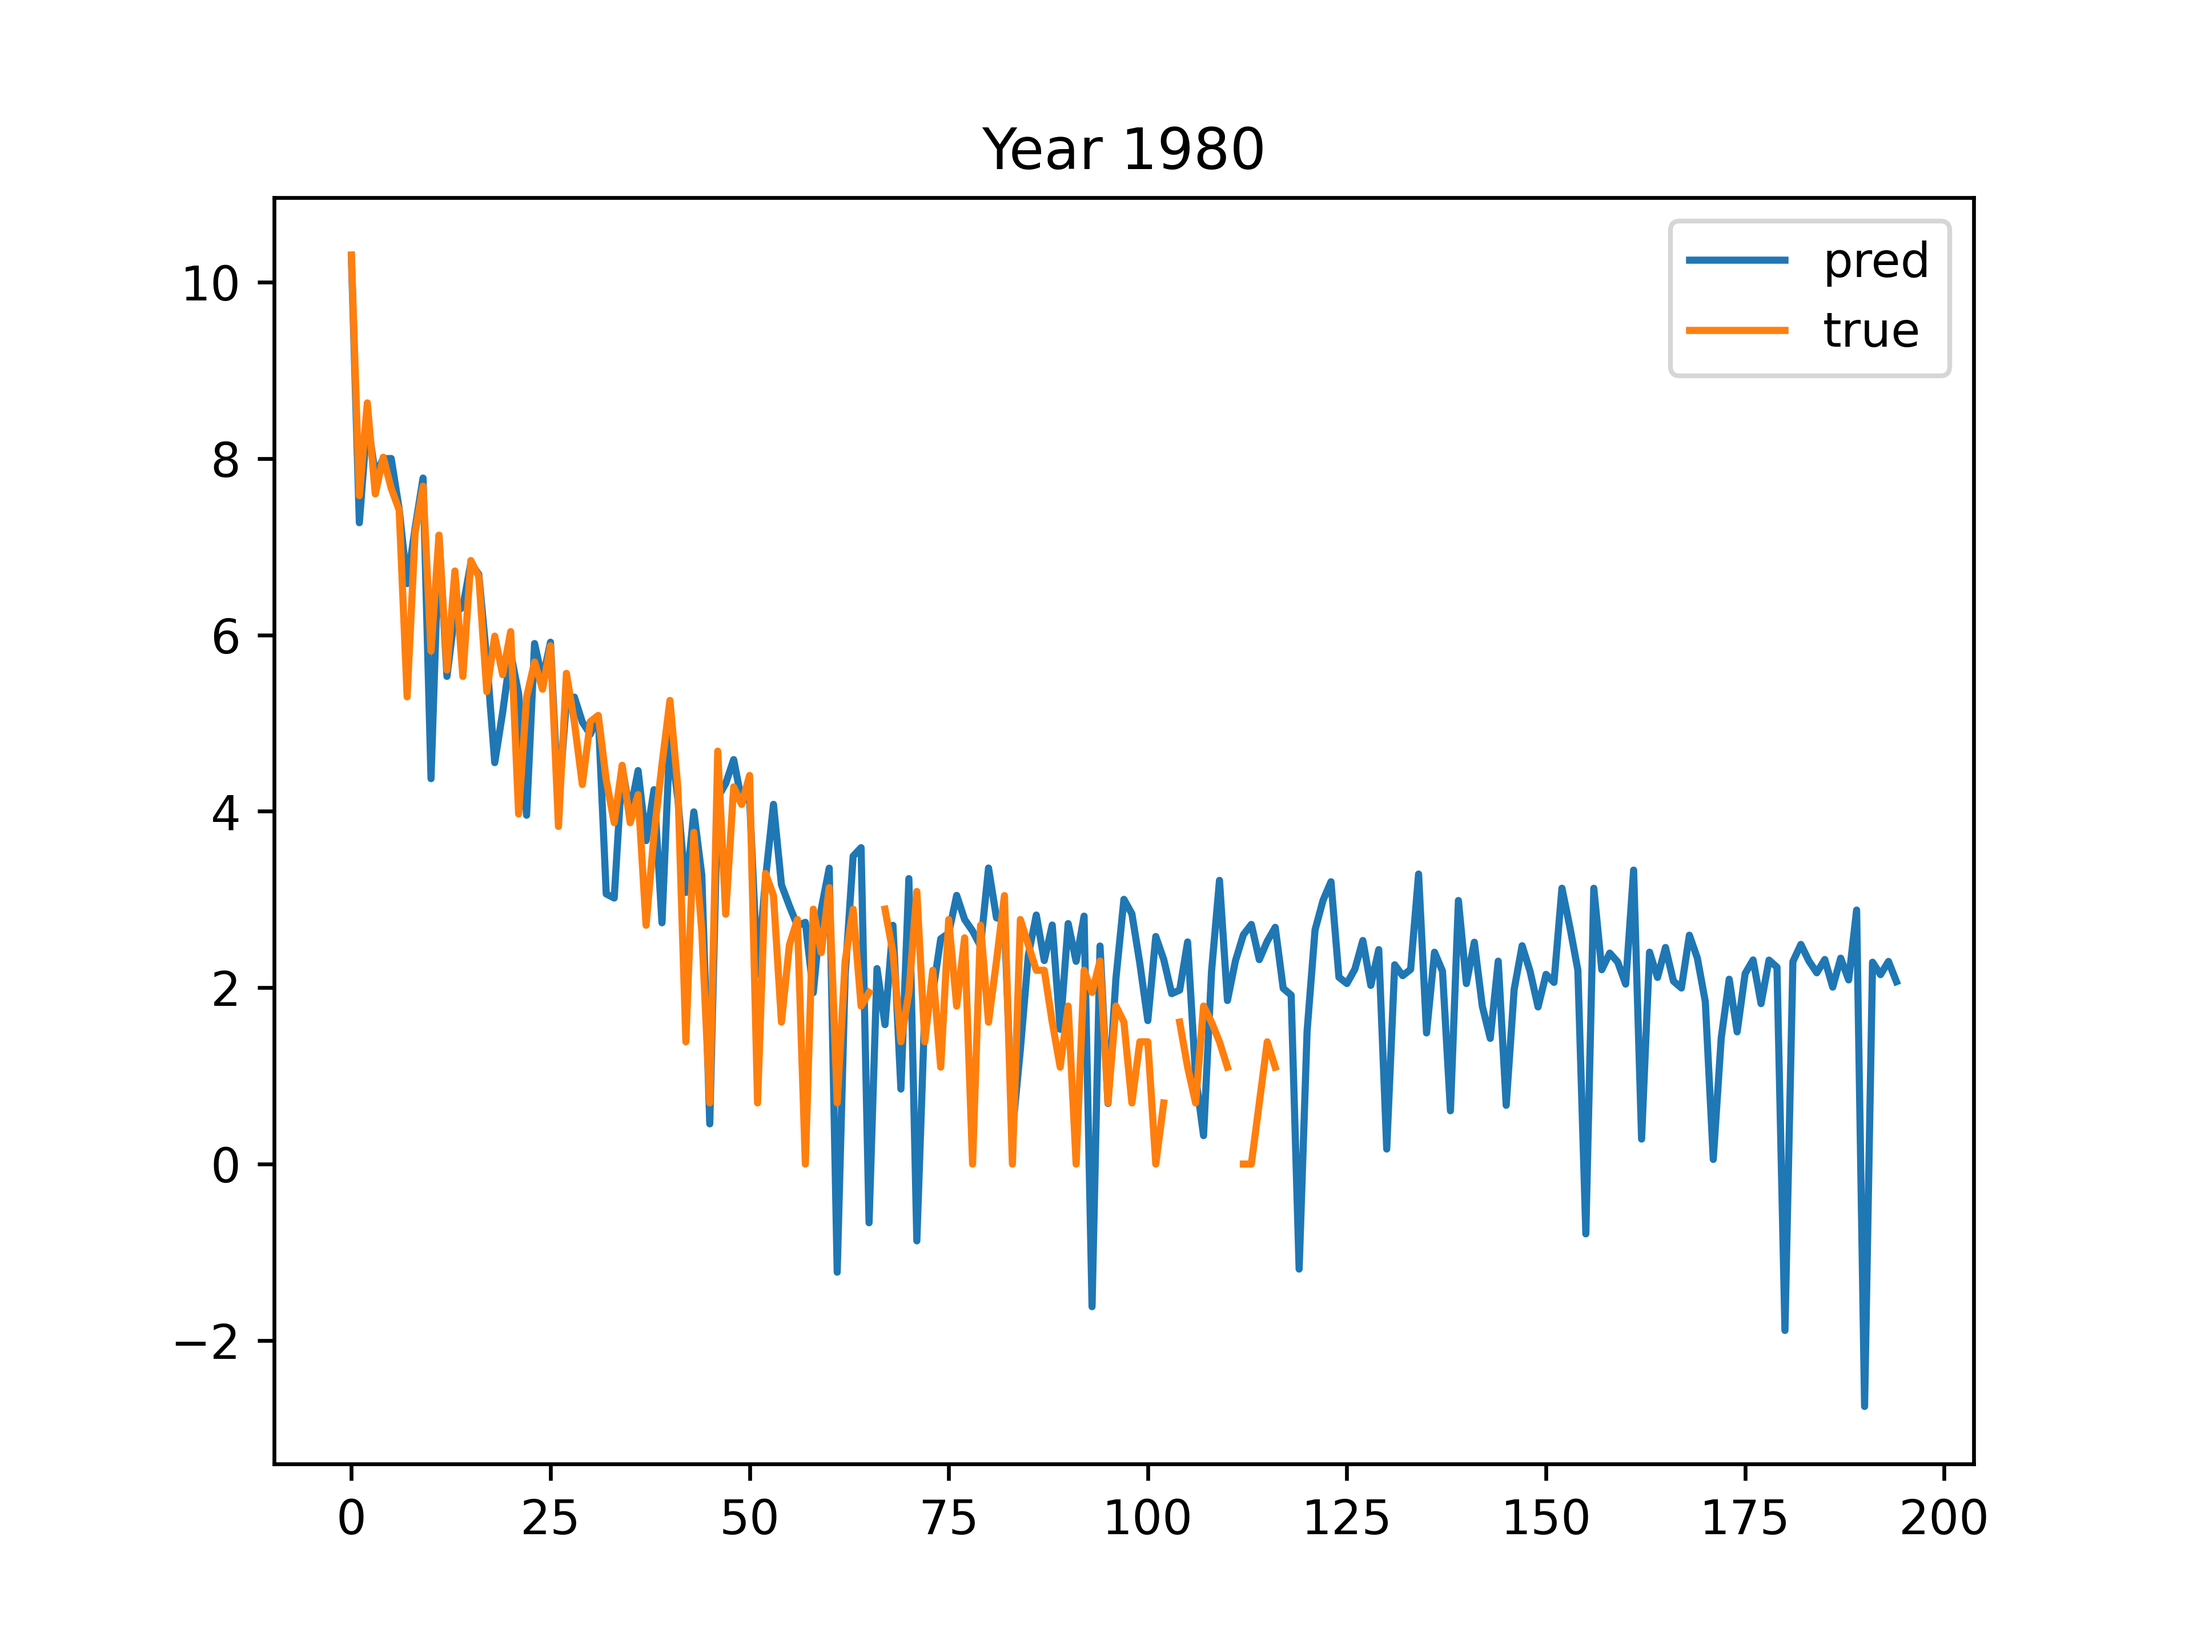
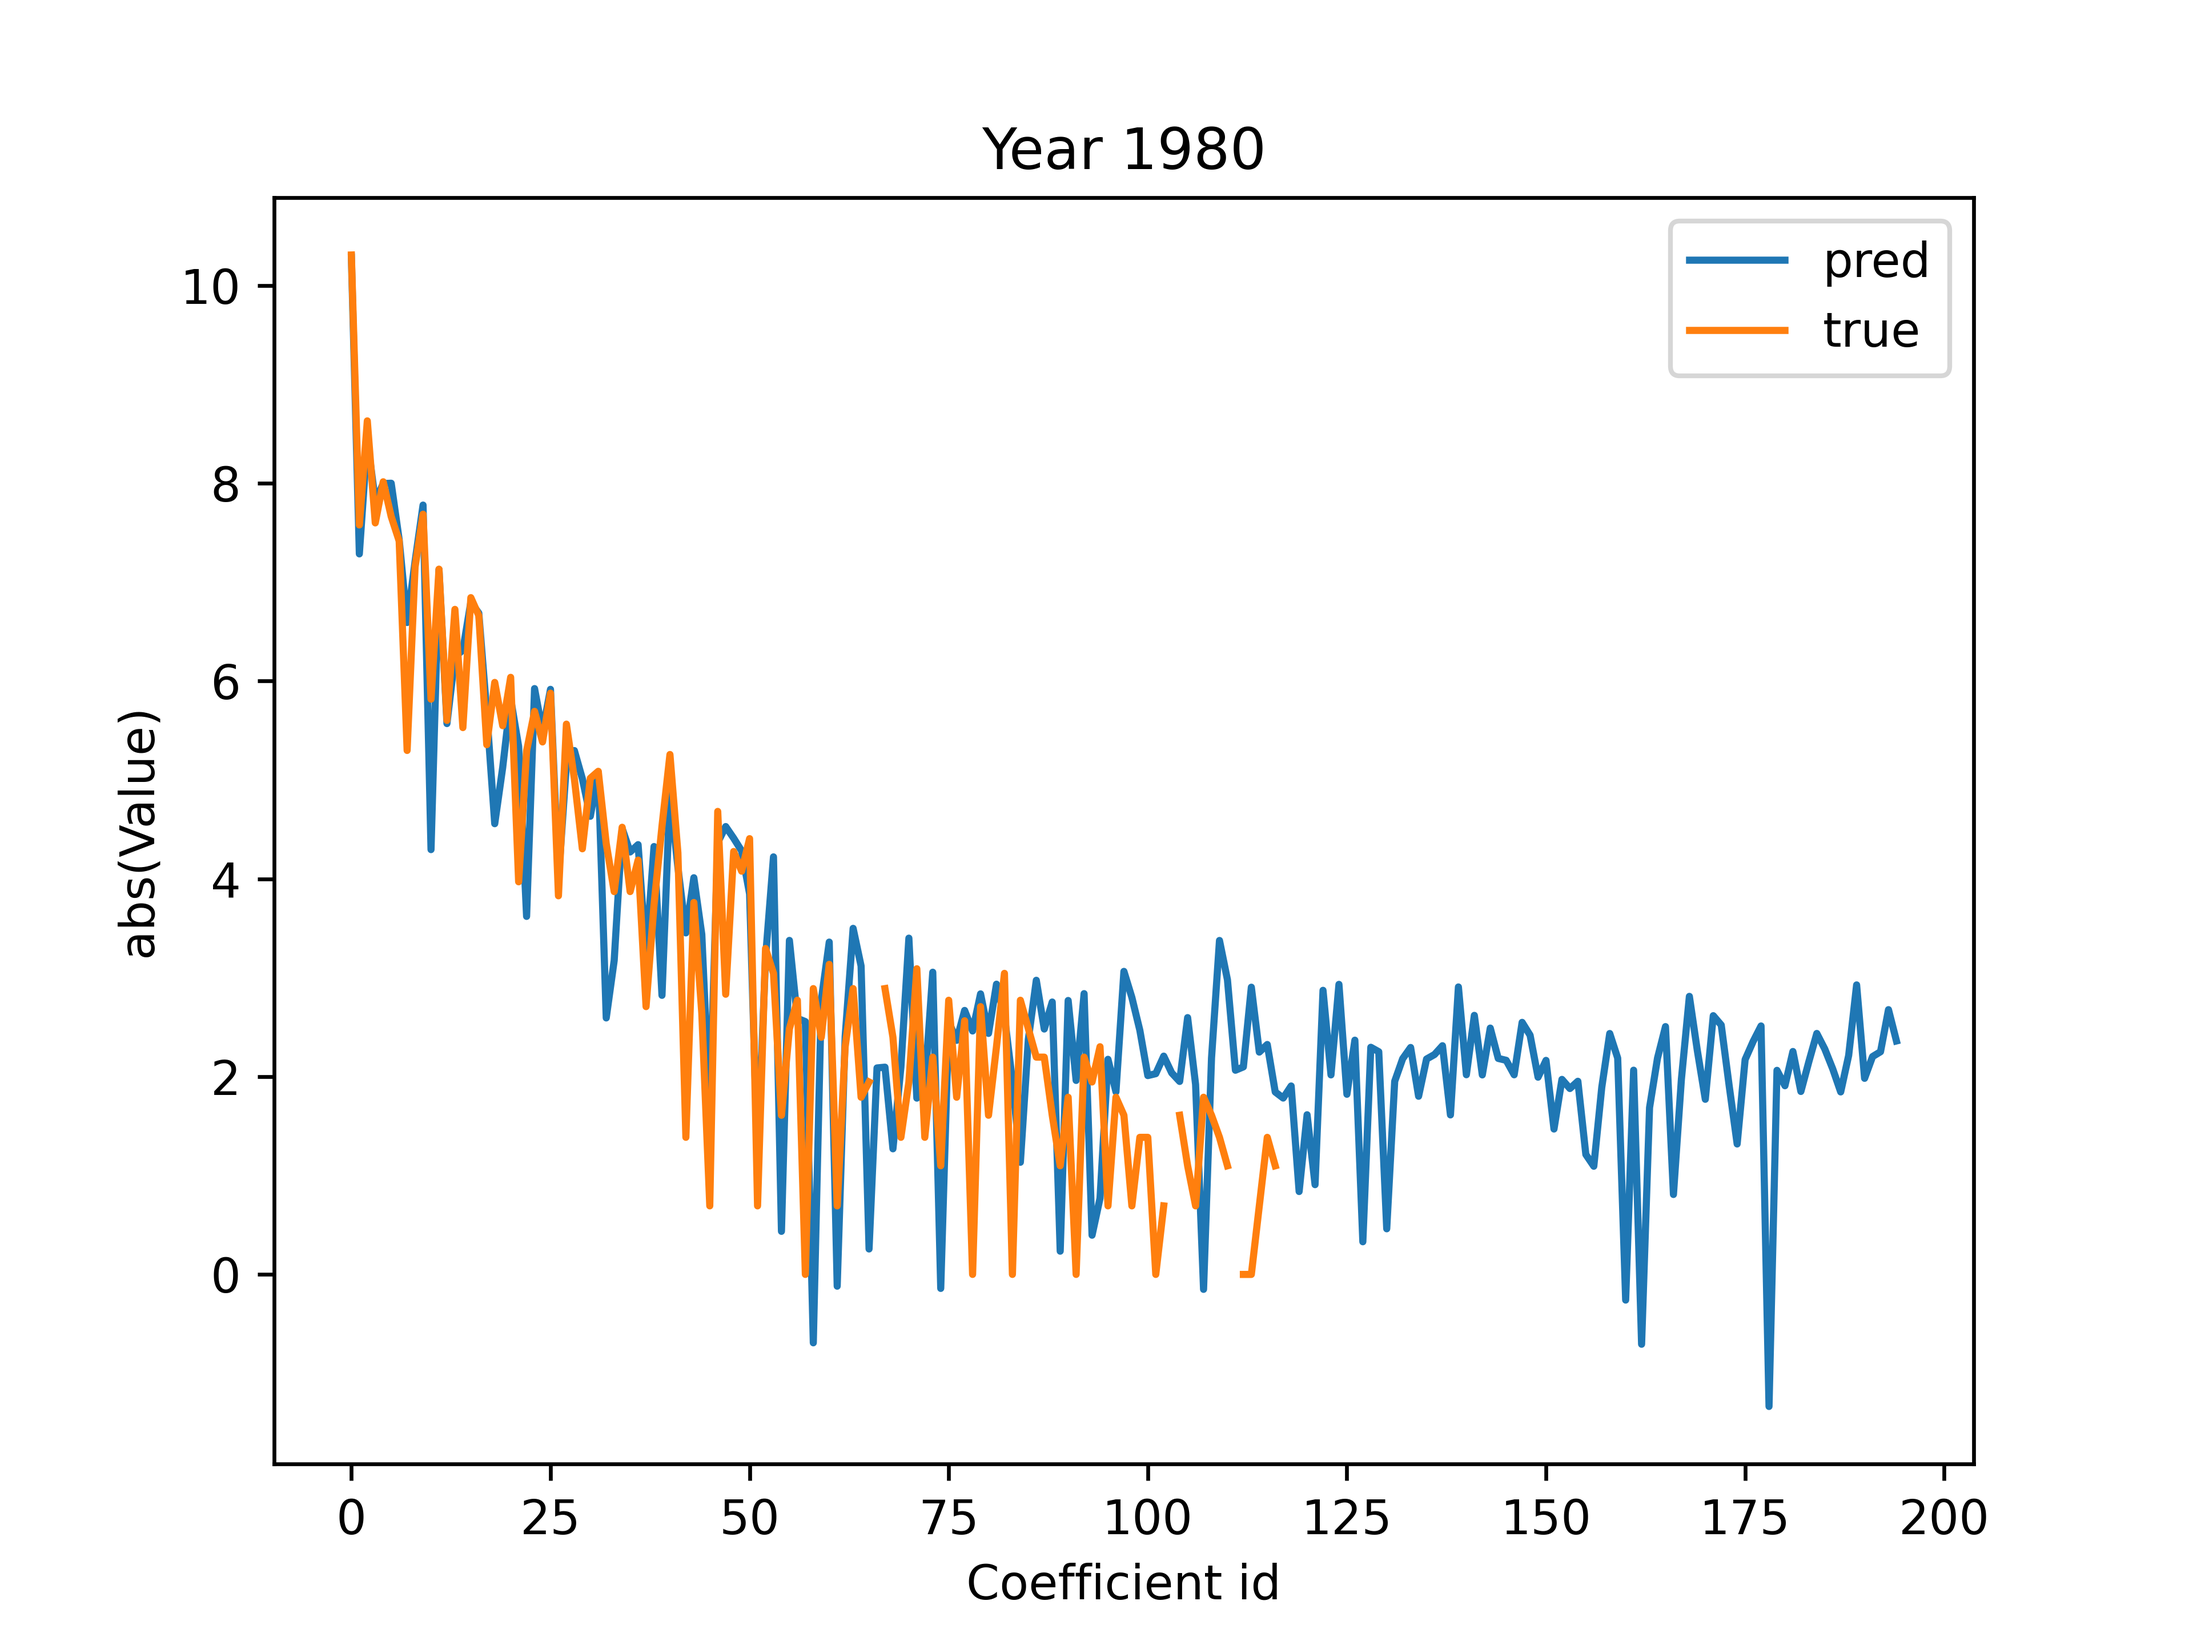
added axis labels

diff --git a/main2.py b/main2.py
@@ -22,16 +22,18 @@ trj.reset()
 # epochs = 50
 
 # trainer.run(epochs, trj, actor, critic, actor_optimizer, critic_optimizer)
-# for year in tqdm(range(2020,1895,-5)):
-#     pred,true = evaluate.run(year)[3:5]
-#     pred = pred.squeeze(0)
+for year in tqdm(range(2020,1895,-5)):
+    pred,true = evaluate.run(year)[3:5]
+    pred = pred.squeeze(0)
 
-    # plt.plot(torch.log(abs(pred)), label='pred')
-    # plt.plot(torch.log(abs(true)), label='true')
-    # plt.title(f'Year {year}')
-    # plt.legend()
-    # plt.savefig(f'Plots/coeff_plot_{year}.png', dpi=600)
-    # plt.clf()
+    plt.plot(torch.log(abs(pred)), label='pred')
+    plt.plot(torch.log(abs(true)), label='true')
+    plt.xlabel('Coefficient id')
+    plt.ylabel('abs(Value)')
+    plt.title(f'Year {year}')
+    plt.legend()
+    plt.savefig(f'Plots/coeff_plot_{year}.png', dpi=600)
+    plt.clf()
 
     # plots.contour_plot(trj, pred, year)
 
@@ -43,10 +45,10 @@ trj.reset()
 #     print(div1>div2)
 
 # evaluate.run(1945)
-year = 1920
-pred,true = evaluate.run(year)[3:5]
-pred = pred.squeeze(0)
-true = trj.coeff(year)
+# year = 1920
+# pred,true = evaluate.run(year)[3:5]
+# pred = pred.squeeze(0)
+# true = trj.coeff(year)
 
-print(trj.dipole_fraction(pred))
-print(trj.dipole_fraction(true))
+# print(trj.dipole_fraction(pred))
+# print(trj.dipole_fraction(true))
